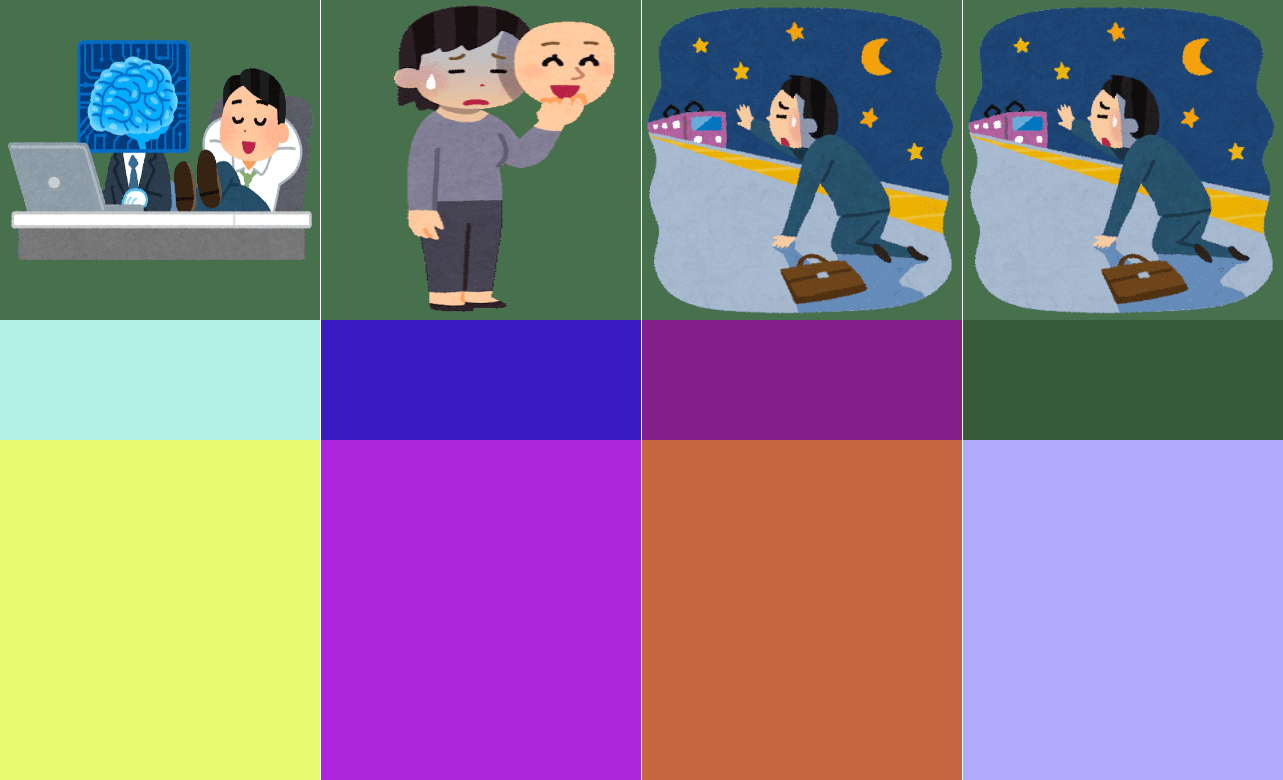
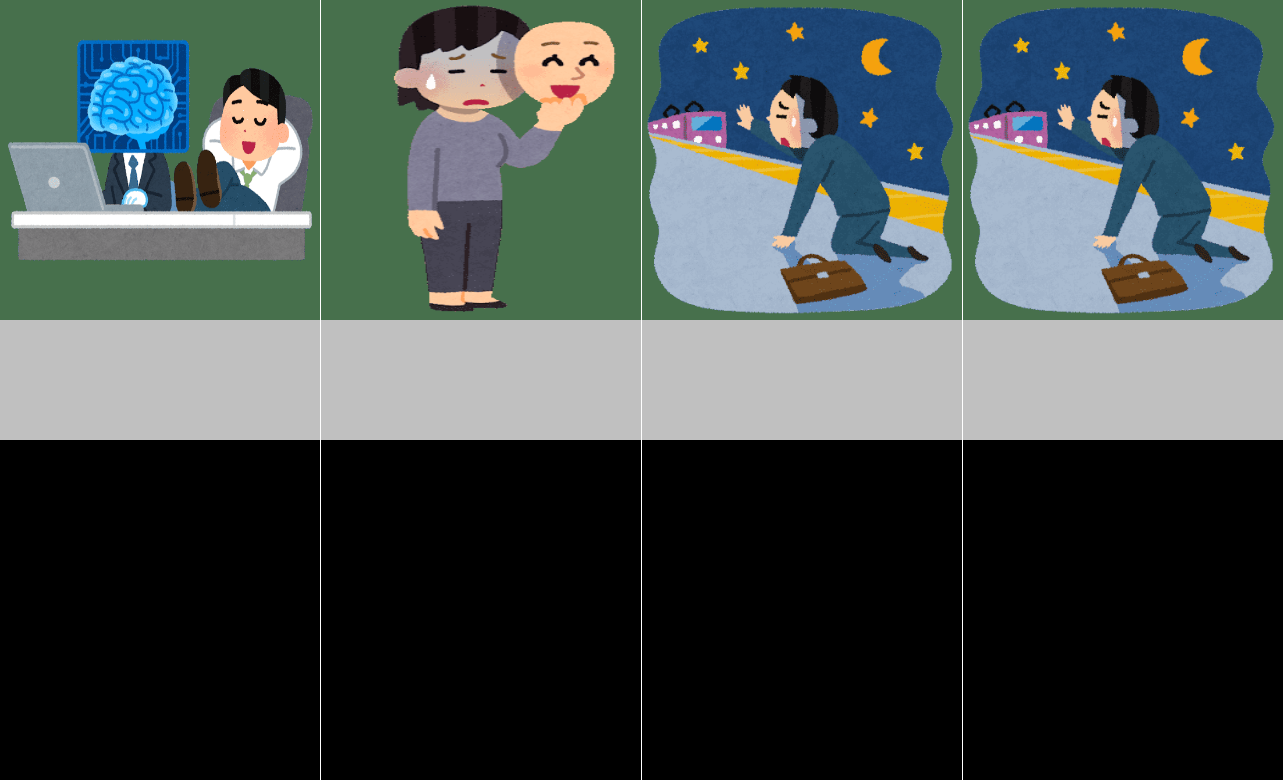
fix: change any background-color

diff --git a/src/make_description_images.py b/src/make_description_images.py
@@ -42,6 +42,7 @@ class ImageLayer:
     image_path: Path
     height: int
     width: int
+    background_color: Tuple[int, int, int]
     _img = None
 
     def __post_init__(self):
@@ -55,11 +56,12 @@ class StringLayer:
     string: str
     height: int
     width: int
+    background_color: Tuple[int, int, int]
     _img = None
 
     def __post_init__(self):
         # mock
-        self._img = get_random_blank_image(self.height, self.width)
+        self._img = get_blank_image(self.height, self.width, rgb=self.background_color)
 
 
 @dataclass
@@ -72,14 +74,15 @@ class Layer:
     height: int
     width: int
     description_type: DescriptionType
+    background_color: Tuple[int, int, int]
     _img: Union[ImageLayer, StringLayer] = None
 
     @classmethod
-    def generate_by_2_coordinate(cls, name: str, c0: Coordinate, c1: Coordinate, description_type: DescriptionType):
+    def generate_by_2_coordinate(cls, name: str, c0: Coordinate, c1: Coordinate, description_type: DescriptionType, background_color: Tuple[int, int, int]):
         name: str = name
         height: int = (c1 - c0).y
         width: int = (c1 - c0).x
-        return Layer(name, c0, height, width, description_type)
+        return Layer(name, c0, height, width, description_type, background_color)
 
     def set_layer(self, layer_val: str):
         """
@@ -88,9 +91,9 @@ class Layer:
         :return:
         """
         if self.description_type == DescriptionType.image:
-            self._img = ImageLayer(layer_val, self.height, self.width)
+            self._img = ImageLayer(layer_val, self.height, self.width, self.background_color)
         elif self.description_type == DescriptionType.string:
-            self._img = StringLayer(layer_val, self.height, self.width)
+            self._img = StringLayer(layer_val, self.height, self.width, self.background_color)
 
 
 @dataclass
@@ -117,7 +120,8 @@ class DescriptionImage:
             y0, y1 = layer_setting_dict['height']
             x0, x1 = layer_setting_dict['width']
             c0, c1 = Coordinate(y=y0, x=x0), Coordinate(y=y1, x=x1)
-            layer: Layer = Layer.generate_by_2_coordinate(name, c0, c1, description_type)
+            background_color = layer_setting_dict['background_color']
+            layer: Layer = Layer.generate_by_2_coordinate(name, c0, c1, description_type, background_color)
             layers.append(layer)
 
         return DescriptionImage(height, width, layers)
